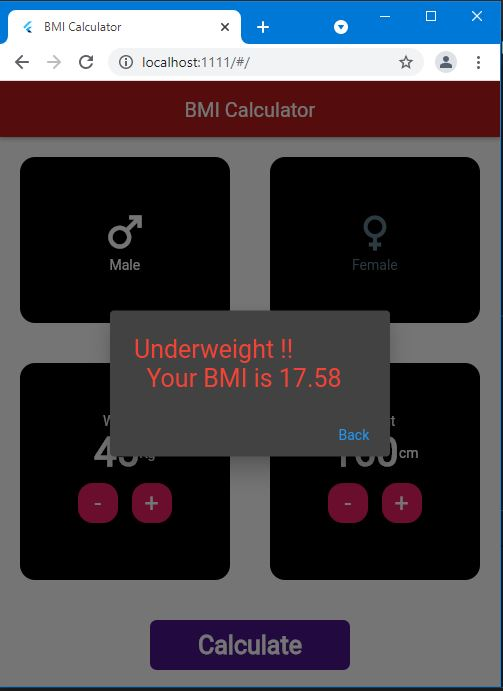
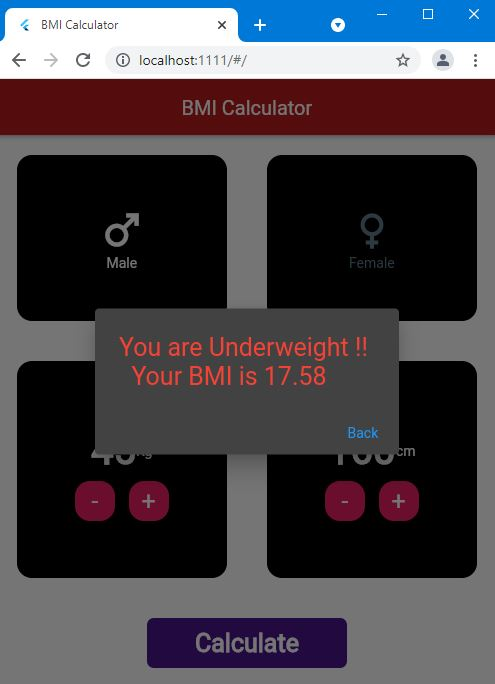
changes

diff --git a/lib/MyHomePage.dart b/lib/MyHomePage.dart
@@ -19,6 +19,7 @@ class _MyHomePageState extends State<MyHomePage> {
   int selectedGender = 0;
   int weight = 45;
   int height = 160;
+  String healthMeasure = "";
   @override
   Widget build(BuildContext context) {
     return Scaffold(
@@ -102,12 +103,22 @@ class _MyHomePageState extends State<MyHomePage> {
           GestureDetector(
             onTap: () {
               double bmi = weight / pow(height / 100, 2);
+
+              if (bmi < 18.5) {
+                healthMeasure = "underweight";
+              } else if (bmi > 18.5 && bmi < 24.9) {
+                healthMeasure = "normal";
+              } else
+                healthMeasure = "overweight";
+
               showDialog(
                   context: context,
                   builder: (BuildContext context) {
                     return AlertDialog(
                       title: Text(
-                        'Underweight !! \n  Your BMI is ' +
+                        'You are ' +
+                            healthMeasure +
+                            " \n  Your BMI is " +
                             bmi.toStringAsFixed(2),
                         style: TextStyle(
                           fontSize: 25,
